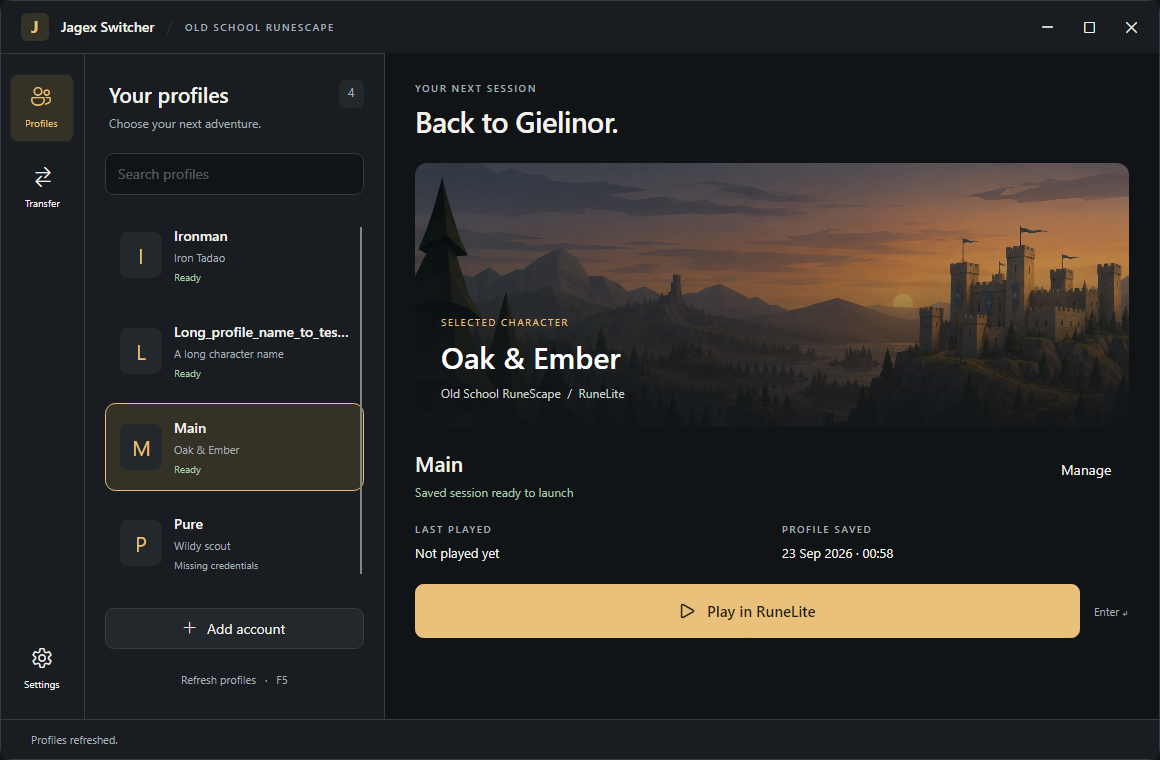
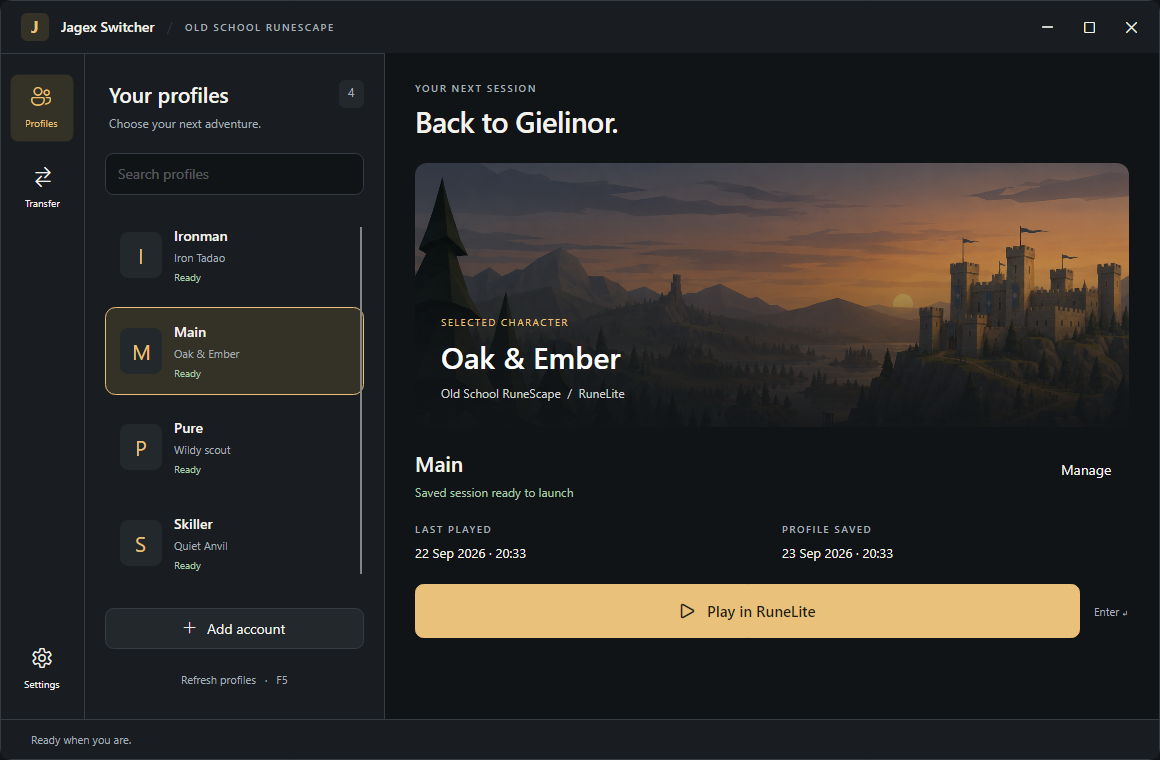
Refresh README screenshot with clean sample profiles
Visual check now renders a dedicated readme.png from a separate sample
vault, used for docs/assets/launcher.png.

Changed region(s): [[0.0931, 0.3934, 0.3103, 0.7566], [0.031, 0.9684, 0.1241, 0.9987], [0.3724, 0.7263, 0.4345, 0.7566]]

diff --git a/app/JagexSwitcher.VisualCheck/Program.cs b/app/JagexSwitcher.VisualCheck/Program.cs
@@ -13,6 +13,7 @@ using System.Net;
 using System.Net.Sockets;
 using System.Text;
 using System.Text.Json;
+using System.Text.Json.Nodes;
 
 // dotnet run --project app/JagexSwitcher.VisualCheck -- .local/avalonia-check
 // Real DPAPI and service operations, synthetic sessions, isolated filesystem paths.
@@ -181,6 +182,28 @@ internal static class Program
         window.Close();
         Check(!Directory.EnumerateFiles(isolated, "*.properties", SearchOption.AllDirectories)
             .Where(p => p.Contains("credentials")).Any(p => File.ReadAllText(p).Contains("JX_SESSION_ID")), "Vault credentials were stored in plaintext.");
+
+        // Clean sample profiles for the README screenshot (docs/assets/launcher.png).
+        isolated = Path.Combine(output, "synthetic-vault-" + Guid.NewGuid());
+        Directory.CreateDirectory(isolated);
+        service = new SwitcherService();
+        foreach (var name in new[] { "vaultRoot", "liveCreds", "runeLiteExe", "runeLiteSettings", "jagexLauncherExe" })
+            typeof(SwitcherService).GetField(name, Private)!.SetValue(service, Path.Combine(isolated, name));
+        Seed("Main", "Oak & Ember");
+        Seed("Ironman", "Iron Tadao");
+        Seed("Pure", "Wildy scout");
+        Seed("Skiller", "Quiet Anvil");
+        var profilesFile = Path.Combine(isolated, "vaultRoot", "profiles.json");
+        var vault = JsonNode.Parse(File.ReadAllText(profilesFile))!;
+        vault["profiles"]!["Main"]!["lastPlayedAt"] = DateTimeOffset.Now.AddDays(-1).ToString("o");
+        File.WriteAllText(profilesFile, vault.ToJsonString());
+        window = new MainWindow(service);
+        window.Show();
+        Pump();
+        list = Find<ListBox>("ProfileList");
+        list.SelectedItem = list.Items.Cast<ProfileInfo>().Single(p => p.Name == "Main");
+        Capture("readme");
+        window.Close();
         Console.WriteLine($"PASS: service self-check, UI import/rename/removal, search, draft retention, transfer rejection/loopback receive/copy/stop, capture cancellation, keyboard, minimum-size and theme renders. {output}");
 
         void Seed(string name, string character)
